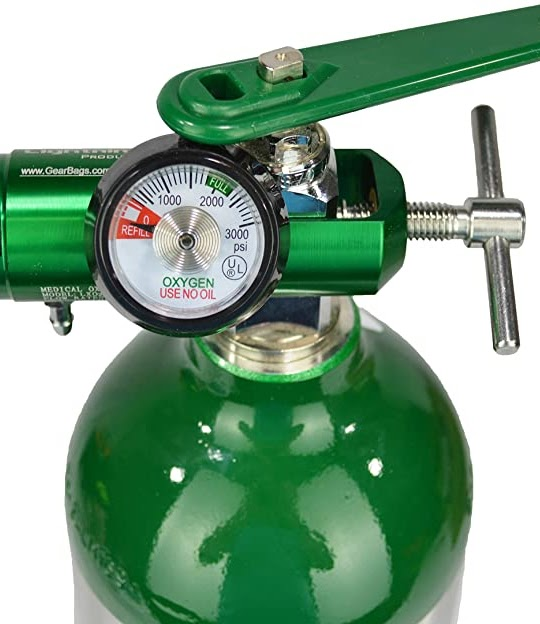
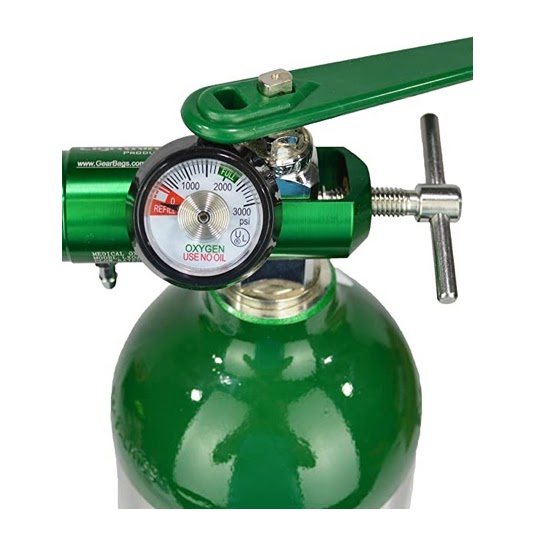
update images for donate page, clean up code white space

diff --git a/docs/donate/index.html b/docs/donate/index.html
@@ -43,59 +43,58 @@
 				<div class="card content stack">
 					<div></div>
 					<figure class="donation-item">
-						<img class="donation-item-img" src="assets/emergency-response-vehicle.png"/>
+						<img class="donation-item-img" src="assets/explorer.jpg" alt="Emergency Response Vehicle"/>
 						<figcaption>Emergency Response Vehicle<span>$75,000</span></figcaption>
-
 					</figure>
+
 					<figure class="donation-item">
-						<img class="donation-item-img" src="assets/power-stretcher-system.jpg"/>
+						<img class="donation-item-img" src="assets/power-stretcher-system.jpg" alt="Power Stretcher System"/>
 						<figcaption>Power Stretcher System<span>$30,000</span></figcaption>
-
 					</figure>
+
 					<figure class="donation-item">
-						<img class="donation-item-img" src="assets/automated-cpr-lucas-thumper.png"/>
+						<img class="donation-item-img" src="assets/defibtech.jpg" alt="Automated CPR LUCAS Thumper"/>
 						<figcaption>Automated CPR LUCAS Thumper<span>$25,000</span></figcaption>
-
 					</figure>
+
 					<figure class="donation-item">
-						<img class="donation-item-img" src="assets/automated-external-defibrillator-aed.jpg"/>
+						<img class="donation-item-img" src="assets/automated-external-defibrillator-aed.jpg" alt="Automated External Defibrillator (AED)"/>
 						<figcaption>Automated External Defibrillator (AED)<span>$2,500</span></figcaption>
-
 					</figure>
+
 					<figure class="donation-item">
-						<img class="donation-item-img" src="assets/emt-course.jpg"/>
+						<img class="donation-item-img" src="assets/emt-course.jpg" alt="EMT Course (Single Student)"/>
 						<figcaption>EMT Course (Single Student)<span>$1,800</span></figcaption>
-
 					</figure>
+
 					<figure class="donation-item">
-						<img class="donation-item-img" src="assets/dispatcher-set-up.jpg"/>
+						<img class="donation-item-img" src="assets/dispatcher-set-up.jpg" alt="Dispatcher Set-Up"/>
 						<figcaption>Dispatcher Set-Up<span>$1,800</span></figcaption>
-
 					</figure>
+
 					<figure class="donation-item">
-						<img class="donation-item-img" src="assets/basic-life-support-equipment-bag.jpg"/>
+						<img class="donation-item-img" src="assets/basic-life-support-equipment-bag.jpg" alt="Basic Life Support Equipment Bag"/>
 						<figcaption>Basic Life Support Equipment Bag<span>$1,500</span></figcaption>
-
 					</figure>
+
 					<figure class="donation-item">
-						<img class="donation-item-img" src="assets/two-way-radio.jpg"/>
+						<img class="donation-item-img" src="assets/two-way-radio.jpg" alt="Two-Way Radio"/>
 						<figcaption>Two-Way Radio<span>$1,000</span></figcaption>
-
 					</figure>
+
 					<figure class="donation-item">
-						<img class="donation-item-img" src="assets/patient-care-reporting-ipad.png"/>
+						<img class="donation-item-img" src="assets/tablet.png" alt="Patient Care Reporting iPad"/>
 						<figcaption>Patient Care Reporting iPad<span>$1,000</span></figcaption>
-
 					</figure>
+
 					<figure class="donation-item">
-						<img class="donation-item-img" src="assets/oxygen-tank.jpg"/>
+						<img class="donation-item-img" src="assets/oxygen-tank.jpg" alt="Oxygen Tank"/>
 						<figcaption>Oxygen Tank<span>$380</span></figcaption>
-
 					</figure>
-					<figure class="donation-item">
-						<img class="donation-item-img" src="assets/sponsor-a-call.jpg"/>
-						<figcaption>Sponsor a Call<span>$180</span></figcaption>
 
+					<figure class="donation-item">
+						<img class="donation-item-img" src="assets/ambulance.jpg" alt="Sponsor a Call"/>
+						<figcaption>Sponsor a Call<span>$180</span></figcaption>
 					</figure>
 				</div>
 			</section>
